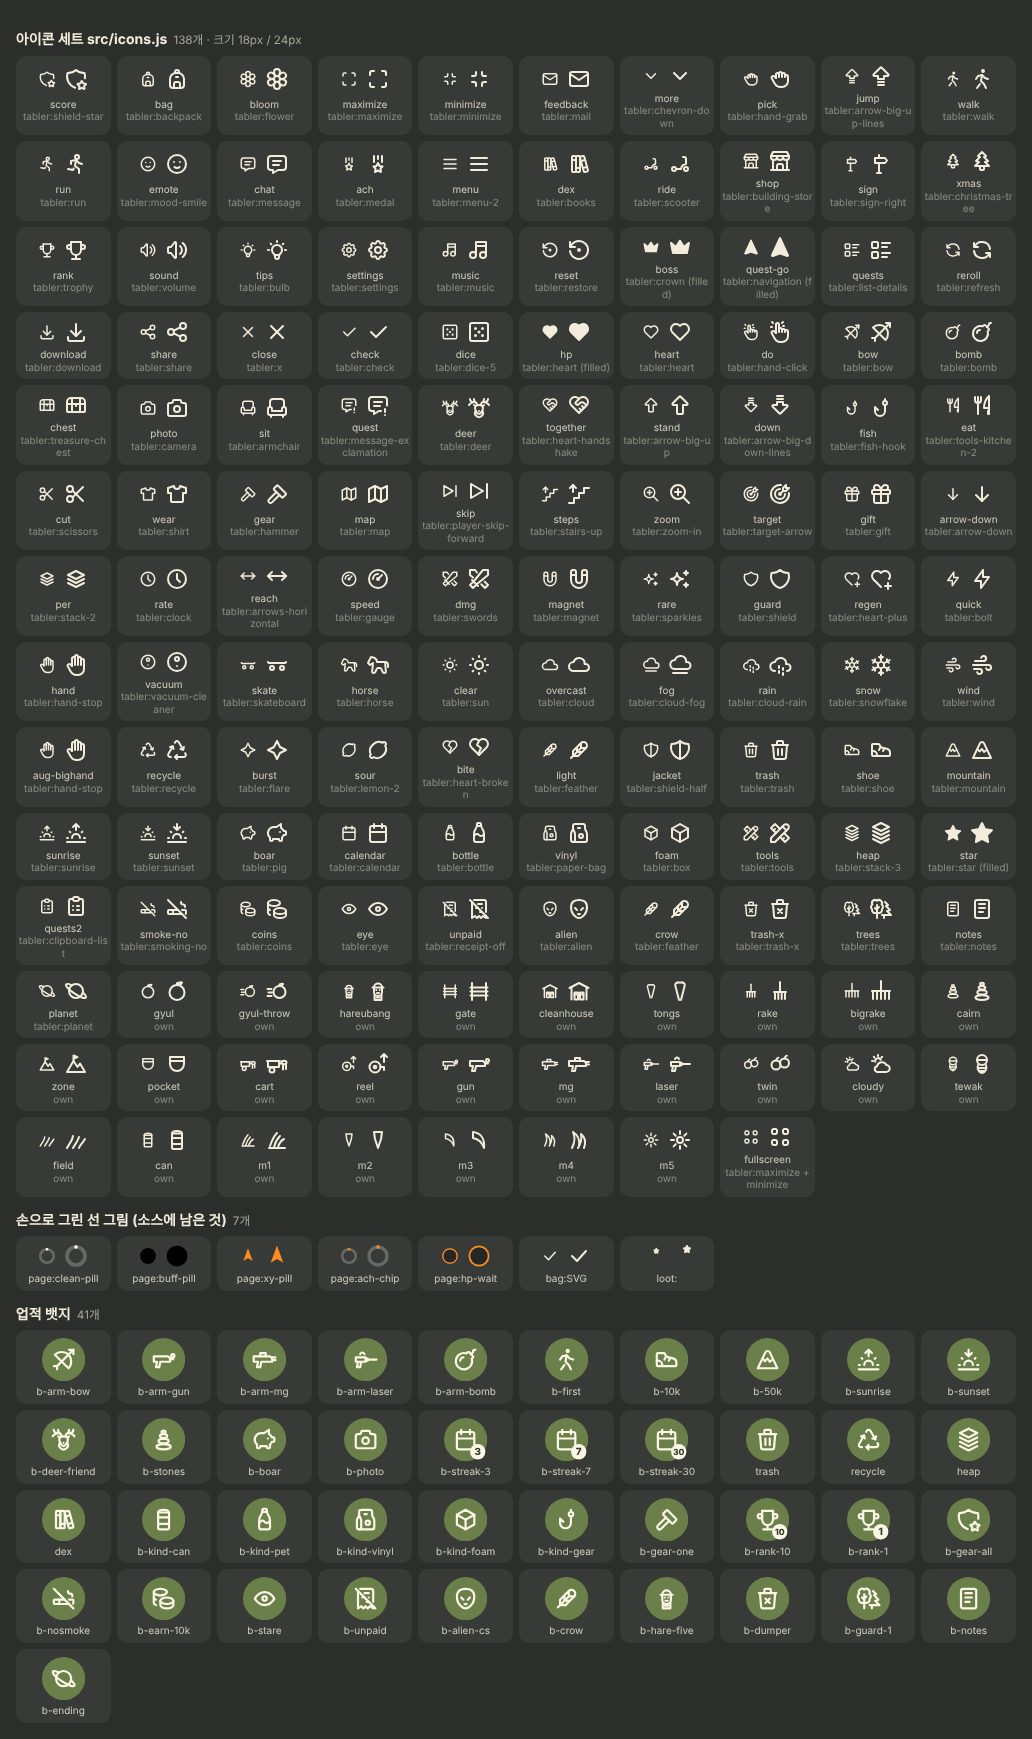
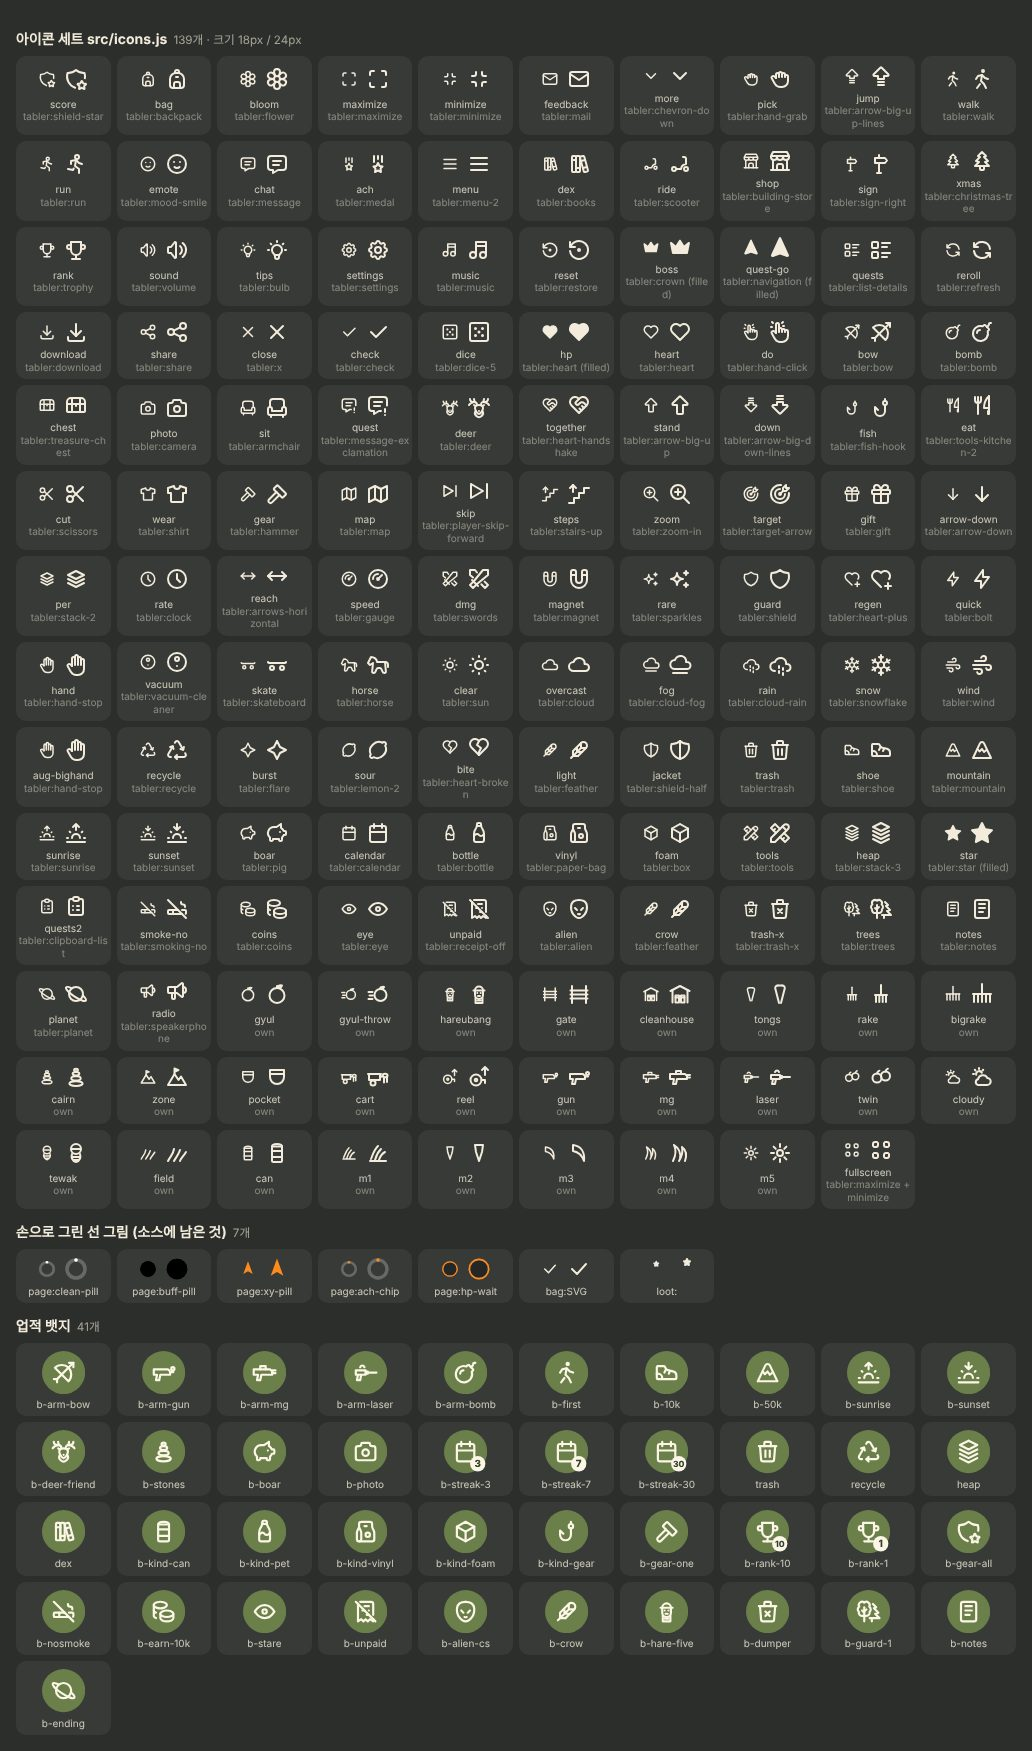
#184 dev 와 합친 뒤: 새 뱃지·방송 아이콘, LEAP 탭 그림 크기
Claude-Session: https://claude.ai/code/session_01Hf36mZubqe4XQmEt67n13X

diff --git a/src/page.html b/src/page.html
@@ -1398,6 +1398,7 @@ img.thumb { display: block; object-fit: contain; pointer-events: none; -webkit-u
 #loot-pop .lp-art img.thumb, .forge-item .fi-art img.thumb { width: 54px; height: 54px; }
 .forge-slot .fs-art img.thumb { width: 30px; height: 30px; } .fs-row .fs-art img.thumb { width: 32px; height: 32px; }
 img.ic-art { width: 1em; height: 1em; object-fit: contain; }
+.shop-tabs button img.thumb { width: 26px; height: 26px; margin: -4px 0; }
 /* 글자 라벨: 처음 며칠(body.newbie, game/iconui.js) */
 .topbar .tpill { position: relative; }
 .tpill > .lb { display: none; position: absolute; margin: 0; width: auto; height: auto; background: none; box-shadow: none; top: calc(100% + 3px); left: 50%; transform: translateX(-50%); font: 700 10px/1 var(--body); font-style: normal; color: #fff; text-shadow: 0 1px 2px rgba(0,0,0,.75), 0 0 6px rgba(0,0,0,.45); white-space: nowrap; pointer-events: none; }
